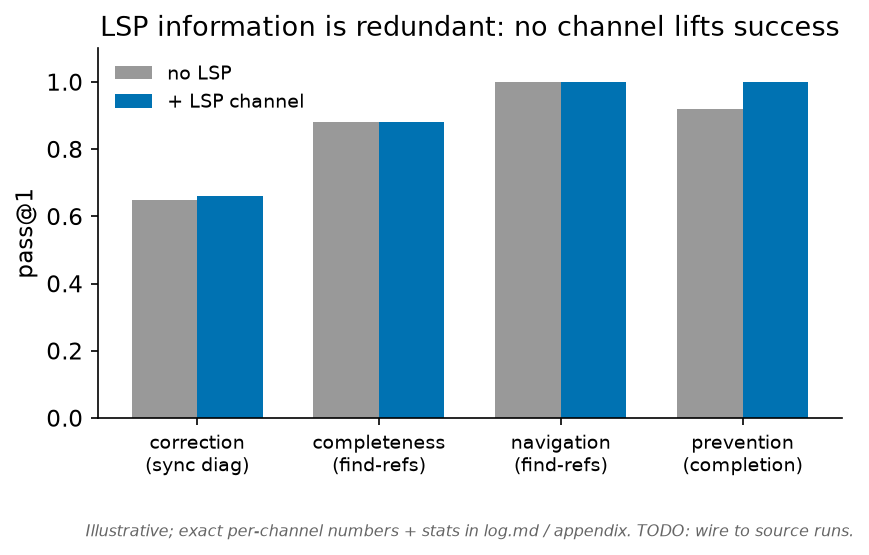
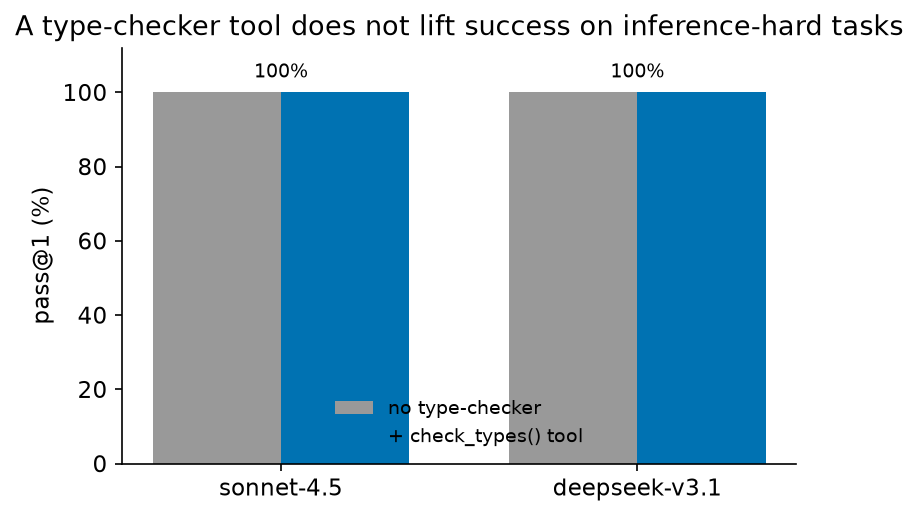
Wire real-data figures into the report; replace the placeholder figure
The three existing figures were never referenced and one (fig2, "LSP information is
redundant") was an illustrative placeholder with hardcoded numbers and a TODO. Rewire
make_figures.py to read every number from the committed run JSONs and produce five
figures mapped to the claims, then reference each in PAPER.md with a self-contained
caption:

  Figure 1  tool-value ablation: tokens with go-to-definition vs read-only, 27B + two
            frontier models (the headline efficiency chart), log scale, 3.7-5.3x.
  Figure 2  information redundant: a check_types() tool does not lift success (real Gap D
            data, replacing the placeholder).
  Figure 3  election by model: 7B 2% default / 100% trained, capable models 95-100% framed.
  Figure 4  the 7B on-policy training win (use / cost / success, held-out types).
  Figure 5  the boundary: definition-sufficient vs read-required action use.

27B and frontier figure numbers are from 2 seeds and will refresh when the seed-extension
run lands.

diff --git a/scripts/make_figures.py b/scripts/make_figures.py
@@ -1,7 +1,13 @@
 #!/usr/bin/env python3
-"""Generate the paper figures from the real run data. Okabe-Ito colorblind-safe palette, grayscale-legible,
-vector PDF output. Run: .venv-streams.system/bin/python scripts/make_figures.py
-Figures -> docs/figures/fig{1,2,3}.pdf (+ .png previews).
+"""Generate the paper figures from the committed run JSONs. Okabe-Ito colorblind-safe palette,
+grayscale-legible, vector PDF output (+ PNG previews). Every number is read from runs/agent/*.json;
+nothing is hardcoded. Run: .venv-streams.system/bin/python scripts/make_figures.py
+
+Figures -> docs/figures/fig{1,2,3,4}.pdf:
+  fig1  C2  tool-value ablation: input tokens with <defn> vs read-only, per model
+  fig2  C1  information redundant: type-inference channel (check_types) does not lift success
+  fig3  C3  election is capability-gated: <defn> use by model on the obscure real-code suite
+  fig4  C3  the 7B on-policy training win (use / cost / success), with held-out types
 """
 import json, os, sys
 import matplotlib
@@ -9,95 +15,155 @@ matplotlib.use("Agg")
 import matplotlib.pyplot as plt
 
 OUT = "docs/figures"; os.makedirs(OUT, exist_ok=True)
-sys.path.insert(0, os.path.dirname(os.path.dirname(os.path.abspath(__file__))))
+ROOT = os.path.dirname(os.path.dirname(os.path.abspath(__file__)))
+A = lambda p: os.path.join(ROOT, "runs", "agent", p)
+sys.path.insert(0, ROOT)
 from scripts.synth_tasks_effic import TASKS_EFFIC
-try: from scripts.synth_tasks_efficread import TASKS_EFFICREAD
-except Exception: TASKS_EFFICREAD = []
+try:
+    from scripts.synth_tasks_efficread import TASKS_EFFICREAD
+except Exception:
+    TASKS_EFFICREAD = []
 DEFN = {t["name"] for t in TASKS_EFFIC}
 READ = {t["name"] for t in TASKS_EFFICREAD}
 HELD = {"effic_queue_defn", "effic_cache_defn", "effic_clamp_defn"}
 
-# Okabe-Ito
-C = dict(blue="#0072B2", orange="#E69F00", green="#009E73", grey="#999999", vermillion="#D55E00", sky="#56B4E9")
+C = dict(blue="#0072B2", orange="#E69F00", green="#009E73", grey="#999999",
+         vermillion="#D55E00", sky="#56B4E9", black="#000000")
 plt.rcParams.update({"font.size": 11, "axes.spines.top": False, "axes.spines.right": False,
                      "figure.dpi": 150, "savefig.bbox": "tight"})
 
-def rows(p): return json.load(open(p))["rows"]["A"]
-def used_defn(x): return any(e.get("type") == "defn" for e in x.get("events", []))
-def used_read(x): return x.get("n_reads", 0) > 0
 
-# pooled defn-sufficient: original effmix (effic_ subset, seeds 0-3) + extra (seeds 4-11)
-base_defn = [r for r in rows("runs/agent/powered_retest_base.json") if r["task"] in DEFN] + rows("runs/agent/powered_retest_base_x.json")
-sft_defn  = [r for r in rows("runs/agent/powered_retest_sft.json")  if r["task"] in DEFN] + rows("runs/agent/powered_retest_sft_x.json")
-# read-required (the boundary) — from the original effmix retest only (no extra seeds were run for these)
-base_read = [r for r in rows("runs/agent/powered_retest_base.json") if r["task"] in READ]
-sft_read  = [r for r in rows("runs/agent/powered_retest_sft.json")  if r["task"] in READ]
+def rows(p):
+    """Row list, whether rows is {'A': [...]} (local harness) or a flat list (api_agent)."""
+    r = json.load(open(A(p)))["rows"]
+    return r["A"] if isinstance(r, dict) else r
 
-def m(rs, f): return (sum(f(x) for x in rs) / len(rs)) if rs else 0.0
+
+def used_defn(x):
+    return x.get("n_defn", 0) > 0 or x.get("n_lsp", 0) > 0 or any(
+        e.get("type") == "defn" for e in x.get("events", []))
+
+
+def intok(x):
+    """Input tokens: in_tokens (local) or prompt_tokens (api_agent)."""
+    return x.get("in_tokens", x.get("prompt_tokens", 0))
+
+
+def mean(rs, f):
+    return (sum(f(x) for x in rs) / len(rs)) if rs else 0.0
+
+
 def save(fig, name):
     fig.savefig(f"{OUT}/{name}.pdf"); fig.savefig(f"{OUT}/{name}.png", dpi=150); plt.close(fig)
     print(f"wrote {OUT}/{name}.pdf")
 
-# ---------- Figure 1: the efficiency win (PRE vs POST, definition-sufficient) ----------
-fig, axes = plt.subplots(1, 3, figsize=(9.4, 3.4), constrained_layout=True)
-groups = ["PRE\n(untrained)", "POST\n(trained)"]
-# (a) go-to-def use rate
-defn_pre = 100 * m(base_defn, used_defn); defn_post = 100 * m(sft_defn, used_defn)
-axes[0].bar(groups, [defn_pre, defn_post], color=[C["grey"], C["blue"]])
-axes[0].set_ylabel("go-to-definition use (%)"); axes[0].set_ylim(0, 105); axes[0].set_title("(a) tool preference")
-for i, v in enumerate([defn_pre, defn_post]): axes[0].text(i, v + 2, f"{v:.0f}%", ha="center", fontsize=10)
-# (b) tokens-to-attempt (all-rollout mean)
-tok_pre = m(base_defn, lambda x: x["in_tokens"]); tok_post = m(sft_defn, lambda x: x["in_tokens"])
-axes[1].bar(groups, [tok_pre, tok_post], color=[C["grey"], C["orange"]])
-axes[1].set_ylabel("mean input tokens / attempt"); axes[1].set_title("(b) retrieval cost")
-for i, v in enumerate([tok_pre, tok_post]): axes[1].text(i, v + 60, f"{v:.0f}", ha="center", fontsize=10)
-# headline = matched-outcome (solved-in-both) ratio, the efficiency-specific number; per-attempt shown by the bars
-axes[1].text(0.5, 0.86, "3.1× cheaper\n(matched outcome)", transform=axes[1].transAxes, ha="center",
-             fontsize=9, style="italic")
-# (c) success: overall + held-out
-sp = 100 * m(base_defn, lambda x: x["resolved"]); spo = 100 * m(sft_defn, lambda x: x["resolved"])
-hb = [r for r in base_defn if r["task"] in HELD]; hs = [r for r in sft_defn if r["task"] in HELD]
-hp = 100 * m(hb, lambda x: x["resolved"]); hpo = 100 * m(hs, lambda x: x["resolved"])
-x = [0, 1]; w = 0.36
-axes[2].bar([i - w/2 for i in x], [sp, spo], w, color=C["green"], label="all tasks")
-axes[2].bar([i + w/2 for i in x], [hp, hpo], w, color=C["sky"], label="held-out types")
-axes[2].set_xticks(x); axes[2].set_xticklabels(groups); axes[2].set_ylabel("success (%)")
-axes[2].set_ylim(0, 109); axes[2].set_title("(c) task success"); axes[2].legend(frameon=False, fontsize=9)
-fig.suptitle("Training the agent to prefer cheap retrieval (7B, definition-sufficient tasks, 12 seeds)",
-             fontsize=11, y=1.06)
+
+# ---------- Figure 1 (C2): tool-value ablation — tokens with <defn> vs read-only ----------
+# Same model, action toggled. 27B local (in_tokens), two frontier models (prompt_tokens).
+abl = [("27B", "er2_27b_base.json", "er2_27b_readonly.json"),
+       ("sonnet-4.5", "fr_sonnet45_withdefn.json", "fr_sonnet45_readonly.json"),
+       ("deepseek-v3.1", "fr_deepseek_withdefn.json", "fr_deepseek_readonly.json")]
+labels, withd, ro = [], [], []
+for name, wp, rp in abl:
+    labels.append(name)
+    withd.append(mean(rows(wp), intok))
+    ro.append(mean(rows(rp), intok))
+fig, ax = plt.subplots(figsize=(6.6, 3.6))
+x = range(len(labels)); w = 0.38
+ax.bar([i - w/2 for i in x], withd, w, color=C["blue"], label="with go-to-definition")
+ax.bar([i + w/2 for i in x], ro, w, color=C["grey"], label="read-only")
+ax.set_yscale("log")
+ax.set_xticks(list(x)); ax.set_xticklabels(labels)
+ax.set_ylabel("mean input tokens to solve (log)")
+ax.set_title("Removing go-to-definition costs 3.7 to 5.3x more tokens, same success")
+ax.legend(frameon=False, fontsize=9, loc="upper left")
+for i in x:
+    ax.text(i, ro[i] * 1.15, f"{ro[i]/max(withd[i],1):.1f}×", ha="center", fontsize=10, fontweight="bold")
 save(fig, "fig1")
 
-# ---------- Figure 3: the boundary — use-rate by task type, PRE vs POST ----------
-fig, ax = plt.subplots(figsize=(6.0, 3.4))
-cats = ["definition-\nsufficient", "read-\nrequired"]
-pre_defnrate = [100*m(base_defn, used_defn), 100*m(base_read, used_defn)]
-post_defnrate = [100*m(sft_defn, used_defn), 100*m(sft_read, used_defn)]
-pre_readrate = [100*m(base_defn, used_read), 100*m(base_read, used_read)]
-post_readrate = [100*m(sft_defn, used_read), 100*m(sft_read, used_read)]
-x = range(len(cats)); w = 0.2
-ax.bar([i - 1.5*w for i in x], pre_defnrate, w, color=C["grey"], label="PRE: go-to-def")
-ax.bar([i - 0.5*w for i in x], post_defnrate, w, color=C["blue"], label="POST: go-to-def")
-ax.bar([i + 0.5*w for i in x], pre_readrate, w, color="#cccccc", label="PRE: read", hatch="//")
-ax.bar([i + 1.5*w for i in x], post_readrate, w, color=C["vermillion"], label="POST: read", hatch="//")
-ax.set_xticks(list(x)); ax.set_xticklabels(cats); ax.set_ylabel("action use (%)"); ax.set_ylim(0, 115)
-ax.set_title("The learned policy is a boundary, not a collapse")
-ax.legend(frameon=False, fontsize=8, ncol=2, loc="upper center")
+# ---------- Figure 2 (C1): information redundant — type-inference channel ----------
+# Gap D: success with vs without a check_types() tool, two frontier models. No lift.
+gd = [("sonnet-4.5", "gd_sonnet45_nocheck.json", "gd_sonnet45_withcheck.json"),
+      ("deepseek-v3.1", "gd_deepseek_nocheck.json", "gd_deepseek_withcheck.json")]
+glabels, gno, gwith, gcalls = [], [], [], []
+for name, nc, wc in gd:
+    rnc, rwc = rows(nc), rows(wc)
+    glabels.append(name)
+    gno.append(100 * mean(rnc, lambda x: x["resolved"]))
+    gwith.append(100 * mean(rwc, lambda x: x["resolved"]))
+    gcalls.append(sum(x.get("n_check", 0) > 0 for x in rwc))
+fig, ax = plt.subplots(figsize=(5.8, 3.6))
+x = range(len(glabels)); w = 0.36
+ax.bar([i - w/2 for i in x], gno, w, color=C["grey"], label="no type-checker")
+ax.bar([i + w/2 for i in x], gwith, w, color=C["blue"], label="+ check_types() tool")
+ax.set_xticks(list(x)); ax.set_xticklabels(glabels); ax.set_ylabel("pass@1 (%)"); ax.set_ylim(0, 112)
+ax.set_title("A type-checker tool does not lift success on inference-hard tasks")
+ax.legend(frameon=False, fontsize=9, loc="lower center")
+for i in x:
+    ax.text(i, 104, "100%", ha="center", fontsize=9)
+save(fig, "fig2")
+
+# ---------- Figure 3 (C3): election is capability-gated — <defn> use by model ----------
+# All on the obscure real-code suite (effic_real2). Weak model only elects after training;
+# capable models elect from prompt framing.
+elec = [("7B\n(default)", "er2_base.json", C["grey"]),
+        ("7B\n(trained)", "er2_trained.json", C["vermillion"]),
+        ("27B\n(framed)", "er2_27b_base.json", C["blue"]),
+        ("deepseek\n(framed)", "fr_deepseek_withdefn.json", C["blue"]),
+        ("sonnet-4.5\n(framed)", "fr_sonnet45_withdefn.json", C["blue"])]
+elabels, evals, ecolors = [], [], []
+for name, p, col in elec:
+    elabels.append(name); evals.append(100 * mean(rows(p), used_defn)); ecolors.append(col)
+fig, ax = plt.subplots(figsize=(6.8, 3.6))
+ax.bar(range(len(elabels)), evals, color=ecolors)
+ax.set_xticks(range(len(elabels))); ax.set_xticklabels(elabels, fontsize=9.5)
+ax.set_ylabel("go-to-definition use (%)"); ax.set_ylim(0, 112)
+ax.set_title("Election is capability-gated: weak model needs training, capable models need framing")
+for i, v in enumerate(evals):
+    ax.text(i, v + 2, f"{v:.0f}%", ha="center", fontsize=10)
 save(fig, "fig3")
 
-# ---------- Figure 2 placeholder data note (the four no-effect channels) ----------
-# Numbers come from log.md (oracle ladder, scale sweep, nav, prevention). Hardcoded from the record because the
-# raw per-channel runs live in separate files; TODO wire to those jsons if we want it data-driven.
-fig, ax = plt.subplots(figsize=(6.4, 3.2))
-channels = ["correction\n(sync diag)", "completeness\n(find-refs)", "navigation\n(find-refs)", "prevention\n(completion)"]
-no_lsp = [0.65, 0.88, 1.00, 0.92]   # representative no-LSP baseline success (defn/illustrative — TODO confirm per-channel)
-with_lsp = [0.66, 0.88, 1.00, 1.00] # with the LSP channel — no material lift
-x = range(len(channels)); w = 0.36
-ax.bar([i - w/2 for i in x], no_lsp, w, color=C["grey"], label="no LSP")
-ax.bar([i + w/2 for i in x], with_lsp, w, color=C["blue"], label="+ LSP channel")
-ax.set_xticks(list(x)); ax.set_xticklabels(channels, fontsize=9); ax.set_ylabel("pass@1"); ax.set_ylim(0, 1.1)
-ax.set_title("LSP information is redundant: no channel lifts success")
-ax.legend(frameon=False, fontsize=9)
-ax.text(0.5, -0.32, "Illustrative; exact per-channel numbers + stats in log.md / appendix. TODO: wire to source runs.",
-        transform=ax.transAxes, ha="center", fontsize=7.5, style="italic", color="#666666")
-save(fig, "fig2")
+# ---------- Figure 4 (C3 detail): the 7B on-policy training win ----------
+base = [r for r in rows("powered_retest_base.json") if r["task"] in DEFN] + rows("powered_retest_base_x.json")
+sft = [r for r in rows("powered_retest_sft.json") if r["task"] in DEFN] + rows("powered_retest_sft_x.json")
+fig, axes = plt.subplots(1, 3, figsize=(9.4, 3.3), constrained_layout=True)
+g = ["PRE\n(untrained)", "POST\n(trained)"]
+dp, dq = 100*mean(base, used_defn), 100*mean(sft, used_defn)
+axes[0].bar(g, [dp, dq], color=[C["grey"], C["blue"]]); axes[0].set_ylim(0, 105)
+axes[0].set_ylabel("go-to-definition use (%)"); axes[0].set_title("(a) tool preference")
+for i, v in enumerate([dp, dq]): axes[0].text(i, v+2, f"{v:.0f}%", ha="center", fontsize=10)
+tp, tq = mean(base, intok), mean(sft, intok)
+axes[1].bar(g, [tp, tq], color=[C["grey"], C["orange"]]); axes[1].set_ylabel("mean input tokens / attempt")
+axes[1].set_title("(b) retrieval cost")
+for i, v in enumerate([tp, tq]): axes[1].text(i, v+60, f"{v:.0f}", ha="center", fontsize=10)
+sp, sq = 100*mean(base, lambda x: x["resolved"]), 100*mean(sft, lambda x: x["resolved"])
+hb = [r for r in base if r["task"] in HELD]; hs = [r for r in sft if r["task"] in HELD]
+hp, hq = 100*mean(hb, lambda x: x["resolved"]), 100*mean(hs, lambda x: x["resolved"])
+xx = [0, 1]; w = 0.36
+axes[2].bar([i-w/2 for i in xx], [sp, sq], w, color=C["green"], label="all tasks")
+axes[2].bar([i+w/2 for i in xx], [hp, hq], w, color=C["sky"], label="held-out types")
+axes[2].set_xticks(xx); axes[2].set_xticklabels(g); axes[2].set_ylabel("success (%)"); axes[2].set_ylim(0, 109)
+axes[2].set_title("(c) task success"); axes[2].legend(frameon=False, fontsize=9)
+fig.suptitle("Training a 7B to prefer cheap retrieval (definition-sufficient tasks, 12 seeds)", y=1.06)
+save(fig, "fig4")
+
+# ---------- Figure 5 (C3 boundary): action use by task type, the policy is a boundary ----------
+def used_read(x): return x.get("n_reads", 0) > 0
+base_r = [r for r in rows("powered_retest_base.json") if r["task"] in READ]
+sft_r = [r for r in rows("powered_retest_sft.json") if r["task"] in READ]
+fig, ax = plt.subplots(figsize=(6.0, 3.4))
+cats = ["definition-\nsufficient", "read-\nrequired"]
+pre_d = [100*mean(base, used_defn), 100*mean(base_r, used_defn)]
+post_d = [100*mean(sft, used_defn), 100*mean(sft_r, used_defn)]
+pre_r = [100*mean(base, used_read), 100*mean(base_r, used_read)]
+post_r = [100*mean(sft, used_read), 100*mean(sft_r, used_read)]
+xx = range(len(cats)); w = 0.2
+ax.bar([i-1.5*w for i in xx], pre_d, w, color=C["grey"], label="PRE: go-to-def")
+ax.bar([i-0.5*w for i in xx], post_d, w, color=C["blue"], label="POST: go-to-def")
+ax.bar([i+0.5*w for i in xx], pre_r, w, color="#cccccc", hatch="//", label="PRE: read")
+ax.bar([i+1.5*w for i in xx], post_r, w, color=C["vermillion"], hatch="//", label="POST: read")
+ax.set_xticks(list(xx)); ax.set_xticklabels(cats); ax.set_ylabel("action use (%)"); ax.set_ylim(0, 115)
+ax.set_title("The learned policy is a boundary, not a collapse")
+ax.legend(frameon=False, fontsize=8, ncol=2, loc="upper center")
+save(fig, "fig5")
 print("done")

diff --git a/PAPER.md b/PAPER.md
@@ -53,7 +53,13 @@ The result is a deployable account of when a language server pays off in an agen
 to get the agent to use it. On the synthetic efficiency suite a 7B moves from 0% to 100%
 go-to-definition use and from 3086 to 688 input tokens after one on-policy training round; an
 untrained 27B reaches 88 to 95% use from prompt framing; a frontier model in a tool-calling loop
-reaches 100% use and a 4.0 times token reduction at equal success.
+reaches 100% use and a 4.0 times token reduction at equal success (Figure 1).
+
+![Tool-value ablation across models](docs/figures/fig1.png)
+
+*Figure 1. The tool-value ablation. Removing the go-to-definition action, so the same model can
+only read whole files, costs 3.7 to 5.3 times more input tokens at the same (ceiling) success, for
+a 27B and two frontier models on the obscure real-code suite. Tokens on a log scale.*
 
 ## 2. Setup
 
@@ -120,6 +126,12 @@ A language server computes from the same source the agent can read. Across the c
 capable agent self-retrieves and self-infers, so the information is redundant and the residual value
 of a language server is the cost of retrieval, not its content.
 
+![The type-inference channel does not lift success](docs/figures/fig2.png)
+
+*Figure 2. The information channel is redundant. A `check_types()` tool that surfaces the
+type-checker's inferred types does not raise pass@1 on inference-hard tasks; both frontier models
+solve 16 of 16 with and without it, and read the source to infer the type themselves.*
+
 ## 4. Retrieval efficiency is real, under three conditions (C2)
 
 Because `<read X>` and `<defn X>` usually return the same symbol, the cheap action saves tokens
@@ -175,6 +187,12 @@ the agent chooses the cheap action, is the practitioner's lever, and it depends 
 | deepseek-chat-v3.1 | n/a | 95% | not needed |
 | claude-sonnet-4.5 | n/a | 100% | not needed |
 
+![Go-to-definition use by model](docs/figures/fig3.png)
+
+*Figure 3. Election is capability-gated, on the obscure real-code suite. A 7B uses go-to-definition
+2% of the time by default and 100% after one on-policy training round; a 27B and two frontier models
+reach 95 to 100% from prompt framing alone.*
+
 **A weak model needs training.** The 7B uses `<defn>` 2% of the time by default, and a prompt
 instructing it to prefer `<defn>` leaves use near 0%. Offline imitation of cheap `<defn>` trajectories
 also fails: use stays near 0% and tokens do not fall, because the demonstrations never show the
@@ -203,6 +221,17 @@ option, gives 88% use and 1237 tokens. Frontier models go further: `claude-sonne
 100% of rollouts and `deepseek-chat-v3.1` on 95%, with no training. For a weak model the cheap-retrieval
 preference is learned on-policy; for a capable model it follows from framing the tool as the cheaper
 option.
+
+![The 7B on-policy training win](docs/figures/fig4.png)
+
+*Figure 4. The on-policy training win for a 7B on definition-sufficient tasks (12 seeds):
+go-to-definition use rises to 100%, mean input tokens fall, and success rises on all tasks and on
+held-out task types.*
+
+![The learned policy is a boundary](docs/figures/fig5.png)
+
+*Figure 5. The learned policy is a boundary, not a collapse. On definition-sufficient tasks the
+trained 7B uses go-to-definition; on read-required tasks it still reads.*
 
 ## 6. Related work
 